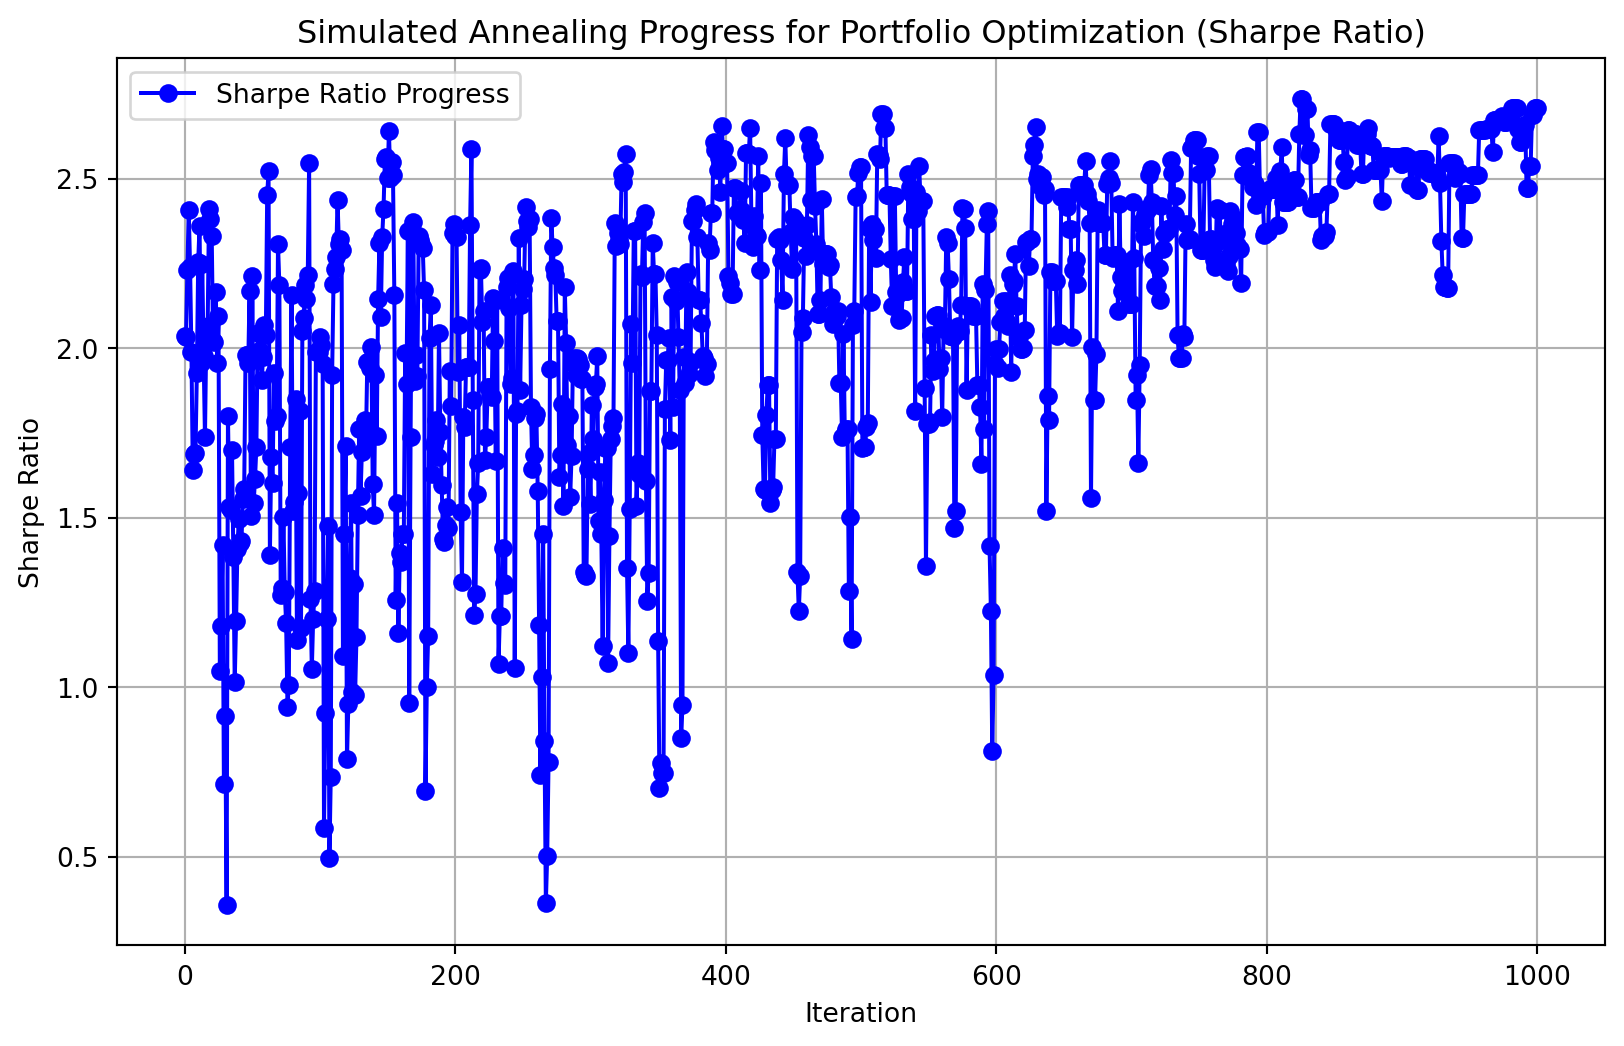
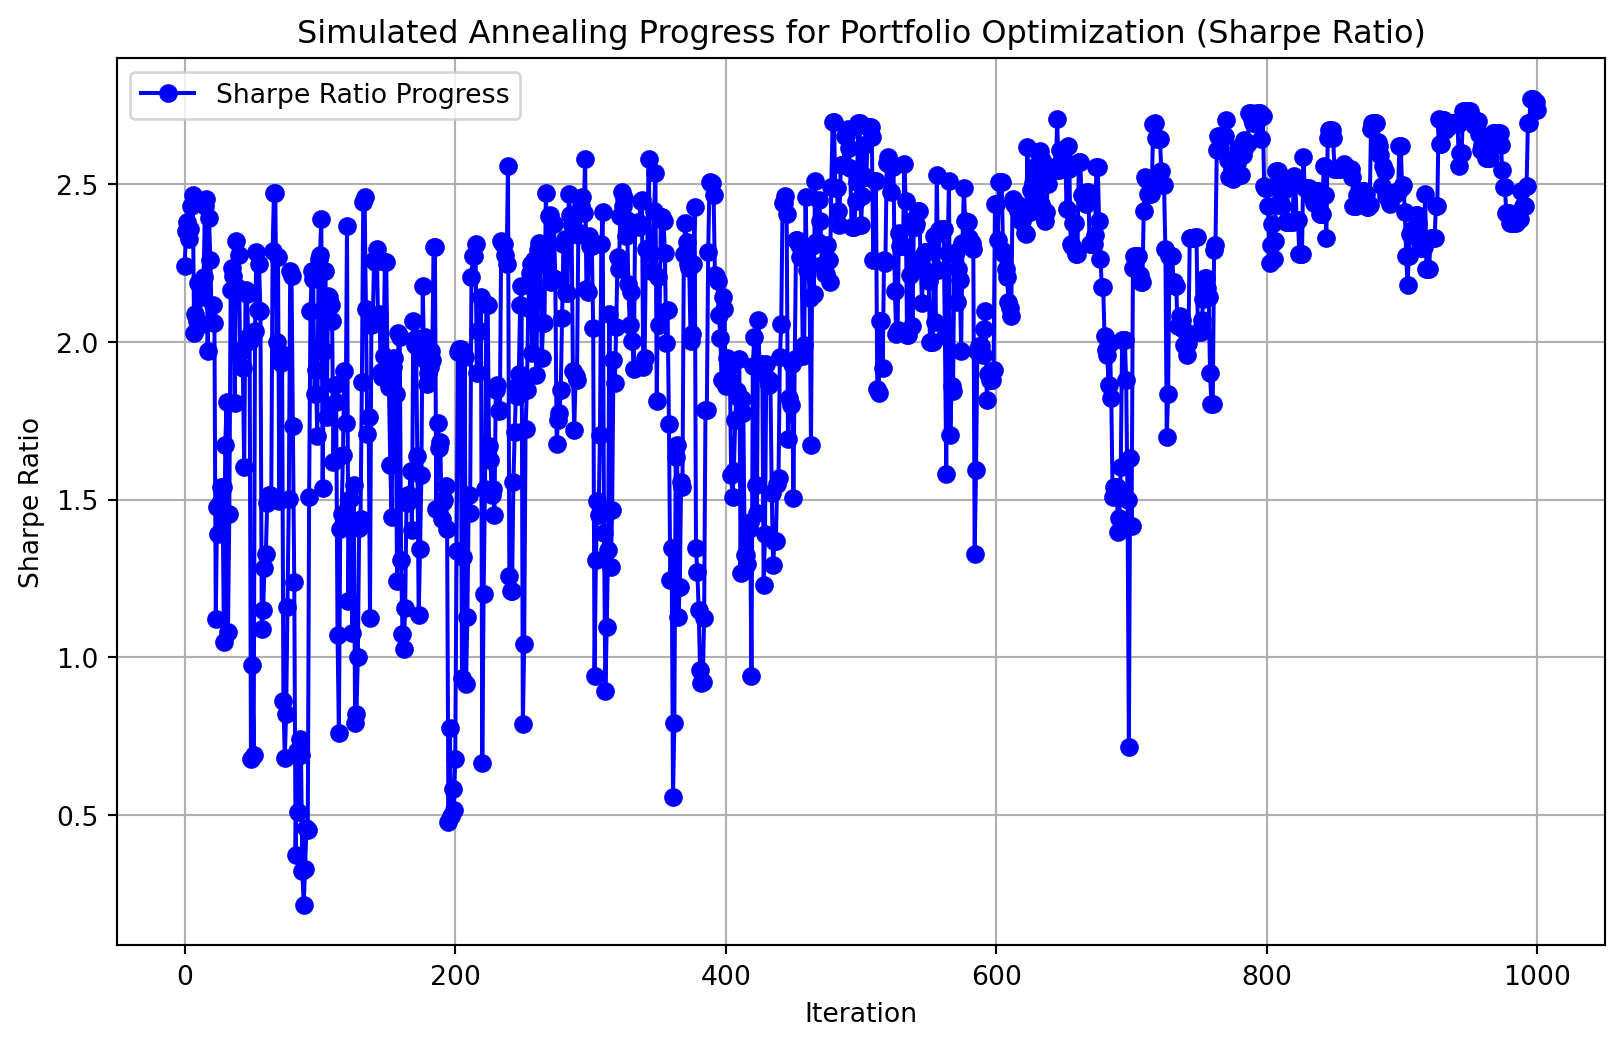
Update SA

diff --git a/docs/sa.html b/docs/sa.html
@@ -489,6 +489,7 @@ window.Quarto = {
 <li>The search strategy of SA is to start with a random possible solution in the solution space and then use a criteria (like the metropolis acceptance criterion) to determine whether a worse solution is to be accepted or not.</li>
 <li>In this example, <span class="math inline">\(t^{\Delta} \quad\)</span> and <span class="math inline">\(\quad t^{\nabla}\)</span> indicate that the solution at the <span class="math inline">\(t+1^{\text{th}}\)</span> iteration is either better or not better than the solution at the <span class="math inline">\(t^{\text{th}}\)</span> iteration, respectively.</li>
 <li>This example shows that if the starting point is 𝑥_9 and SA accepts only a new candidate solution that is better than the current solution, i.e., it has no escape mechanism, the search will get stuck at one of the two local optima (<span class="math inline">\(x_8\)</span> and <span class="math inline">\(x_10\)</span>) denoted <span class="math inline">\(L_1\)</span> and <span class="math inline">\(L_2\)</span>.</li>
+<li>The temperature parameter in SA allows escape from local optima. If the search starts at <span class="math inline">\(x_9\)</span>, SA can potentially move to worse solutions with a certain probability based on temperature and a random probability check. At higher temperatures, SA has a higher chance of escaping local optima (<span class="math inline">\(L_1\)</span>) (<span class="math inline">\(x_8\)</span>) and (<span class="math inline">\(L_2\)</span>) (<span class="math inline">\(x_{10}\)</span>), but as the temperature decreases, it becomes less likely to accept worse moves, leading to convergence.</li>
 </ul>
 <div class="quarto-figure quarto-figure-center">
 <figure class="figure">
@@ -502,7 +503,7 @@ window.Quarto = {
 <ul>
 <li>Initialization:
 <ul>
-<li>Choose an initial solution <span class="math inline">\(x_0\)</span> and an initial temperature <span class="math inline">\(T_0\)</span>.</li>
+<li>Choose an initial solution <span class="math inline">\(s\)</span> and an initial temperature <span class="math inline">\(T_0\)</span>.</li>
 </ul></li>
 <li>Iteration:
 <ul>
@@ -622,7 +623,7 @@ window.Quarto = {
 <h1>Making a Model: One Max with SA</h1>
 <section id="imports-global-variables" class="level2">
 <h2 class="anchored" data-anchor-id="imports-global-variables">Imports, Global Variables</h2>
-<div id="26de5e41" class="cell" data-execution_count="1">
+<div id="ee9282ee" class="cell" data-execution_count="1">
 <div class="sourceCode cell-code" id="cb1"><pre class="sourceCode python code-with-copy"><code class="sourceCode python"><span id="cb1-1"><a href="#cb1-1" aria-hidden="true" tabindex="-1"></a><span class="co">##Simulated Annealing One-Max Example</span></span>
 <span id="cb1-2"><a href="#cb1-2" aria-hidden="true" tabindex="-1"></a><span class="im">import</span> numpy <span class="im">as</span> np</span>
 <span id="cb1-3"><a href="#cb1-3" aria-hidden="true" tabindex="-1"></a><span class="im">import</span> random</span>
@@ -642,7 +643,7 @@ window.Quarto = {
 <ul>
 <li>The init_sa function initializes a random solution (sol) for the One-Max problem by generating a binary array of size num_bits (default 10), where each element is randomly set to 0 or 1.The initial solution is evaluated using the One-Max function (evaluate) to calculate its fitness (i.e., the sum of 1’s in the array).The function returns the initial solution and its evaluated fitness.</li>
 </ul>
-<div id="9e002ea6" class="cell" data-execution_count="2">
+<div id="314f0891" class="cell" data-execution_count="2">
 <div class="sourceCode cell-code" id="cb2"><pre class="sourceCode python code-with-copy"><code class="sourceCode python"><span id="cb2-1"><a href="#cb2-1" aria-hidden="true" tabindex="-1"></a><span class="co"># Initialization function (I)</span></span>
 <span id="cb2-2"><a href="#cb2-2" aria-hidden="true" tabindex="-1"></a><span class="kw">def</span> init_sa(num_bits):</span>
 <span id="cb2-3"><a href="#cb2-3" aria-hidden="true" tabindex="-1"></a>    sol <span class="op">=</span> np.random.randint(<span class="dv">0</span>, <span class="dv">2</span>, num_bits)</span>
@@ -655,7 +656,7 @@ window.Quarto = {
 <li>This is done by randomly selecting an index in the binary array and toggling the bit (changing 1 to 0 or 0 to 1).</li>
 <li>This new solution represents the neighboring candidate that will be evaluated next, which is a small random change to the current solution.</li>
 </ul>
-<div id="906cd2bb" class="cell" data-execution_count="3">
+<div id="1155ebbc" class="cell" data-execution_count="3">
 <div class="sourceCode cell-code" id="cb3"><pre class="sourceCode python code-with-copy"><code class="sourceCode python"><span id="cb3-1"><a href="#cb3-1" aria-hidden="true" tabindex="-1"></a><span class="co"># Transition function (T)</span></span>
 <span id="cb3-2"><a href="#cb3-2" aria-hidden="true" tabindex="-1"></a><span class="kw">def</span> transit(sol):</span>
 <span id="cb3-3"><a href="#cb3-3" aria-hidden="true" tabindex="-1"></a>    new_sol <span class="op">=</span> sol.copy()</span>
@@ -669,7 +670,7 @@ window.Quarto = {
 <ul>
 <li>The evaluate function calculates the fitness of the current solution by summing up the number of 1’s in the binary array (sol).The One-Max problem aims to maximize this value, with the goal being to find the solution with all bits set to 1.</li>
 </ul>
-<div id="74e01a8c" class="cell" data-execution_count="4">
+<div id="62b7b5e4" class="cell" data-execution_count="4">
 <div class="sourceCode cell-code" id="cb4"><pre class="sourceCode python code-with-copy"><code class="sourceCode python"><span id="cb4-1"><a href="#cb4-1" aria-hidden="true" tabindex="-1"></a><span class="co"># Evaluation Function (E): One-max function</span></span>
 <span id="cb4-2"><a href="#cb4-2" aria-hidden="true" tabindex="-1"></a><span class="kw">def</span> evaluate(sol):</span>
 <span id="cb4-3"><a href="#cb4-3" aria-hidden="true" tabindex="-1"></a>    <span class="cf">return</span> np.<span class="bu">sum</span>(sol)</span></code><button title="Copy to Clipboard" class="code-copy-button"><i class="bi"></i></button></pre></div>
@@ -687,7 +688,7 @@ window.Quarto = {
 </ul></li>
 <li>The function returns True if the new solution is accepted, otherwise False.</li>
 </ul>
-<div id="16c8c340" class="cell" data-execution_count="5">
+<div id="d2c7965e" class="cell" data-execution_count="5">
 <div class="sourceCode cell-code" id="cb5"><pre class="sourceCode python code-with-copy"><code class="sourceCode python"><span id="cb5-1"><a href="#cb5-1" aria-hidden="true" tabindex="-1"></a><span class="co"># Determination function for SA (D)</span></span>
 <span id="cb5-2"><a href="#cb5-2" aria-hidden="true" tabindex="-1"></a><span class="kw">def</span> determine(neighbor_value, current_value, temperature):</span>
 <span id="cb5-3"><a href="#cb5-3" aria-hidden="true" tabindex="-1"></a>    <span class="cf">if</span> neighbor_value <span class="op">&gt;</span> current_value:</span>
@@ -714,7 +715,7 @@ window.Quarto = {
 <li>The number of iterations is incremented.</li>
 <li>After the loop terminates (either because the temperature has cooled sufficiently or the maximum number of iterations has been reached), the function returns:best_sol: The best solution found during the process.best_value: The fitness value of the best solution.value_history: A list of the fitness values over time, useful for visualizing the algorithm’s progress.</li>
 </ul>
-<div id="ab716bc2" class="cell" data-execution_count="6">
+<div id="f960b657" class="cell" data-execution_count="6">
 <div class="sourceCode cell-code" id="cb6"><pre class="sourceCode python code-with-copy"><code class="sourceCode python"><span id="cb6-1"><a href="#cb6-1" aria-hidden="true" tabindex="-1"></a><span class="co"># Simulated Annealing (SA) function</span></span>
 <span id="cb6-2"><a href="#cb6-2" aria-hidden="true" tabindex="-1"></a><span class="kw">def</span> simulated_annealing(num_bits):</span>
 <span id="cb6-3"><a href="#cb6-3" aria-hidden="true" tabindex="-1"></a>    current_sol, current_value <span class="op">=</span> init_sa(num_bits)</span>
@@ -750,7 +751,7 @@ window.Quarto = {
 <li>The temperature gradually cools down, reducing the chance of accepting worse solutions as the algorithm progresses.</li>
 <li>Finally, the results are printed and plotted for visual analysis.</li>
 </ul>
-<div id="dcbdaa6d" class="cell" data-execution_count="7">
+<div id="362dc00b" class="cell" data-execution_count="7">
 <div class="sourceCode cell-code" id="cb7"><pre class="sourceCode python code-with-copy"><code class="sourceCode python"><span id="cb7-1"><a href="#cb7-1" aria-hidden="true" tabindex="-1"></a><span class="co"># Main execution</span></span>
 <span id="cb7-2"><a href="#cb7-2" aria-hidden="true" tabindex="-1"></a>start_time <span class="op">=</span> time.time()</span>
 <span id="cb7-3"><a href="#cb7-3" aria-hidden="true" tabindex="-1"></a>best_sol, best_value, value_history <span class="op">=</span> simulated_annealing(num_bits)</span>
@@ -761,7 +762,7 @@ window.Quarto = {
 </section>
 <section id="output" class="level2">
 <h2 class="anchored" data-anchor-id="output">Output</h2>
-<div id="dcdde97f" class="cell" data-execution_count="8">
+<div id="c9f12925" class="cell" data-execution_count="8">
 <div class="sourceCode cell-code" id="cb8"><pre class="sourceCode python code-with-copy"><code class="sourceCode python"><span id="cb8-1"><a href="#cb8-1" aria-hidden="true" tabindex="-1"></a><span class="co"># Output results (O)</span></span>
 <span id="cb8-2"><a href="#cb8-2" aria-hidden="true" tabindex="-1"></a><span class="bu">print</span>(<span class="ss">f"Best solution: </span><span class="sc">{</span>best_sol<span class="sc">}</span><span class="ss">"</span>)</span>
 <span id="cb8-3"><a href="#cb8-3" aria-hidden="true" tabindex="-1"></a><span class="bu">print</span>(<span class="ss">f"Best value (number of 1s): </span><span class="sc">{</span>best_value<span class="sc">}</span><span class="ss">"</span>)</span>
@@ -779,7 +780,7 @@ window.Quarto = {
 <div class="cell-output cell-output-stdout">
 <pre><code>Best solution: [1 1 1 1 1 1 1 1 1 1]
 Best value (number of 1s): 10
-Execution time: 0.010547 seconds</code></pre>
+Execution time: 0.006007 seconds</code></pre>
 </div>
 <div class="cell-output cell-output-display">
 <div>
@@ -801,7 +802,7 @@ Execution time: 0.010547 seconds</code></pre>
 </ul>
 <section id="example-results" class="level2">
 <h2 class="anchored" data-anchor-id="example-results">Example Results</h2>
-<div id="c9ec5211" class="cell" data-execution_count="9">
+<div id="da64442e" class="cell" data-execution_count="9">
 <div class="sourceCode cell-code" id="cb10"><pre class="sourceCode python code-with-copy"><code class="sourceCode python"><span id="cb10-1"><a href="#cb10-1" aria-hidden="true" tabindex="-1"></a><span class="im">import</span> numpy <span class="im">as</span> np</span>
 <span id="cb10-2"><a href="#cb10-2" aria-hidden="true" tabindex="-1"></a><span class="im">import</span> random</span>
 <span id="cb10-3"><a href="#cb10-3" aria-hidden="true" tabindex="-1"></a><span class="im">import</span> math</span>
@@ -896,14 +897,14 @@ Execution time: 0.010547 seconds</code></pre>
 <span id="cb10-92"><a href="#cb10-92" aria-hidden="true" tabindex="-1"></a>plt.grid(<span class="va">True</span>)</span>
 <span id="cb10-93"><a href="#cb10-93" aria-hidden="true" tabindex="-1"></a>plt.show()</span></code><button title="Copy to Clipboard" class="code-copy-button"><i class="bi"></i></button></pre></div>
 <div class="cell-output cell-output-stdout">
-<pre><code>Optimal x: 0.0008327309239737346
-Optimal value: 0.0033678537625800864
-Execution time: 0.013541 seconds</code></pre>
+<pre><code>Optimal x: -11.07029246181302
+Optimal value: 18.063587494255678
+Execution time: 0.012545 seconds</code></pre>
 </div>
 <div class="cell-output cell-output-display">
 <div>
 <figure class="figure">
-<p><img src="sa_files/figure-html/cell-10-output-2.png" width="821" height="523" class="figure-img"></p>
+<p><img src="sa_files/figure-html/cell-10-output-2.png" width="808" height="523" class="figure-img"></p>
 </figure>
 </div>
 </div>
@@ -950,7 +951,7 @@ Execution time: 0.013541 seconds</code></pre>
 </section>
 <section id="portfolio-diversification-with-sa" class="level1">
 <h1>Portfolio Diversification With SA</h1>
-<div id="b69b293f" class="cell" data-execution_count="10">
+<div id="8c8f75e4" class="cell" data-execution_count="10">
 <div class="sourceCode cell-code" id="cb12"><pre class="sourceCode python code-with-copy"><code class="sourceCode python"><span id="cb12-1"><a href="#cb12-1" aria-hidden="true" tabindex="-1"></a><span class="co">#Simulated Annealing Finance Example</span></span>
 <span id="cb12-2"><a href="#cb12-2" aria-hidden="true" tabindex="-1"></a></span>
 <span id="cb12-3"><a href="#cb12-3" aria-hidden="true" tabindex="-1"></a><span class="im">import</span> yfinance <span class="im">as</span> yf</span>
@@ -1055,7 +1056,7 @@ Execution time: 0.013541 seconds</code></pre>
 <span id="cb12-102"><a href="#cb12-102" aria-hidden="true" tabindex="-1"></a><span class="bu">print</span>(<span class="ss">f"Best Sharpe Ratio: </span><span class="sc">{</span>best_sharpe<span class="sc">:.4f}</span><span class="ss">"</span>)</span>
 <span id="cb12-103"><a href="#cb12-103" aria-hidden="true" tabindex="-1"></a><span class="bu">print</span>(<span class="ss">f"Execution time: </span><span class="sc">{</span>execution_time<span class="sc">:.6f}</span><span class="ss"> seconds"</span>)</span></code><button title="Copy to Clipboard" class="code-copy-button"><i class="bi"></i></button></pre></div>
 <div class="cell-output cell-output-stderr">
-<pre><code>[                       0%                       ][                       0%                       ][**************        30%                       ]  3 of 10 completed[*******************   40%                       ]  4 of 10 completed[**********************50%                       ]  5 of 10 completed[**********************60%****                   ]  6 of 10 completed[**********************70%*********              ]  7 of 10 completed[**********************80%*************          ]  8 of 10 completed[**********************90%******************     ]  9 of 10 completed[*********************100%***********************]  10 of 10 completed</code></pre>
+<pre><code>[                       0%                       ][**********            20%                       ]  2 of 10 completed[**************        30%                       ]  3 of 10 completed[*******************   40%                       ]  4 of 10 completed[**********************50%                       ]  5 of 10 completed[**********************60%****                   ]  6 of 10 completed[**********************70%*********              ]  7 of 10 completed[**********************80%*************          ]  8 of 10 completed[**********************90%******************     ]  9 of 10 completed[*********************100%***********************]  10 of 10 completed</code></pre>
 </div>
 <div class="cell-output cell-output-display">
 <div>
@@ -1066,18 +1067,18 @@ Execution time: 0.013541 seconds</code></pre>
 </div>
 <div class="cell-output cell-output-stdout">
 <pre><code>Optimized Portfolio:
-AAPL: 0.1208
-GOOGL: 0.0081
-MSFT: 0.0021
-AMZN: 0.1377
-TSLA: 0.0000
-NFLX: 0.3018
-NVDA: 0.0005
-META: 0.3380
-DIS: 0.0910
+AAPL: 0.1525
+GOOGL: 0.0000
+MSFT: 0.0000
+AMZN: 0.1291
+TSLA: 0.0062
+NFLX: 0.2399
+NVDA: 0.0377
+META: 0.3130
+DIS: 0.1215
 BA: 0.0000
-Best Sharpe Ratio: 2.7354
-Execution time: 0.097607 seconds</code></pre>
+Best Sharpe Ratio: 2.7708
+Execution time: 0.086151 seconds</code></pre>
 </div>
 </div>
 <section id="our-hill-climbing-finance-model-was-better.-why" class="level2">
